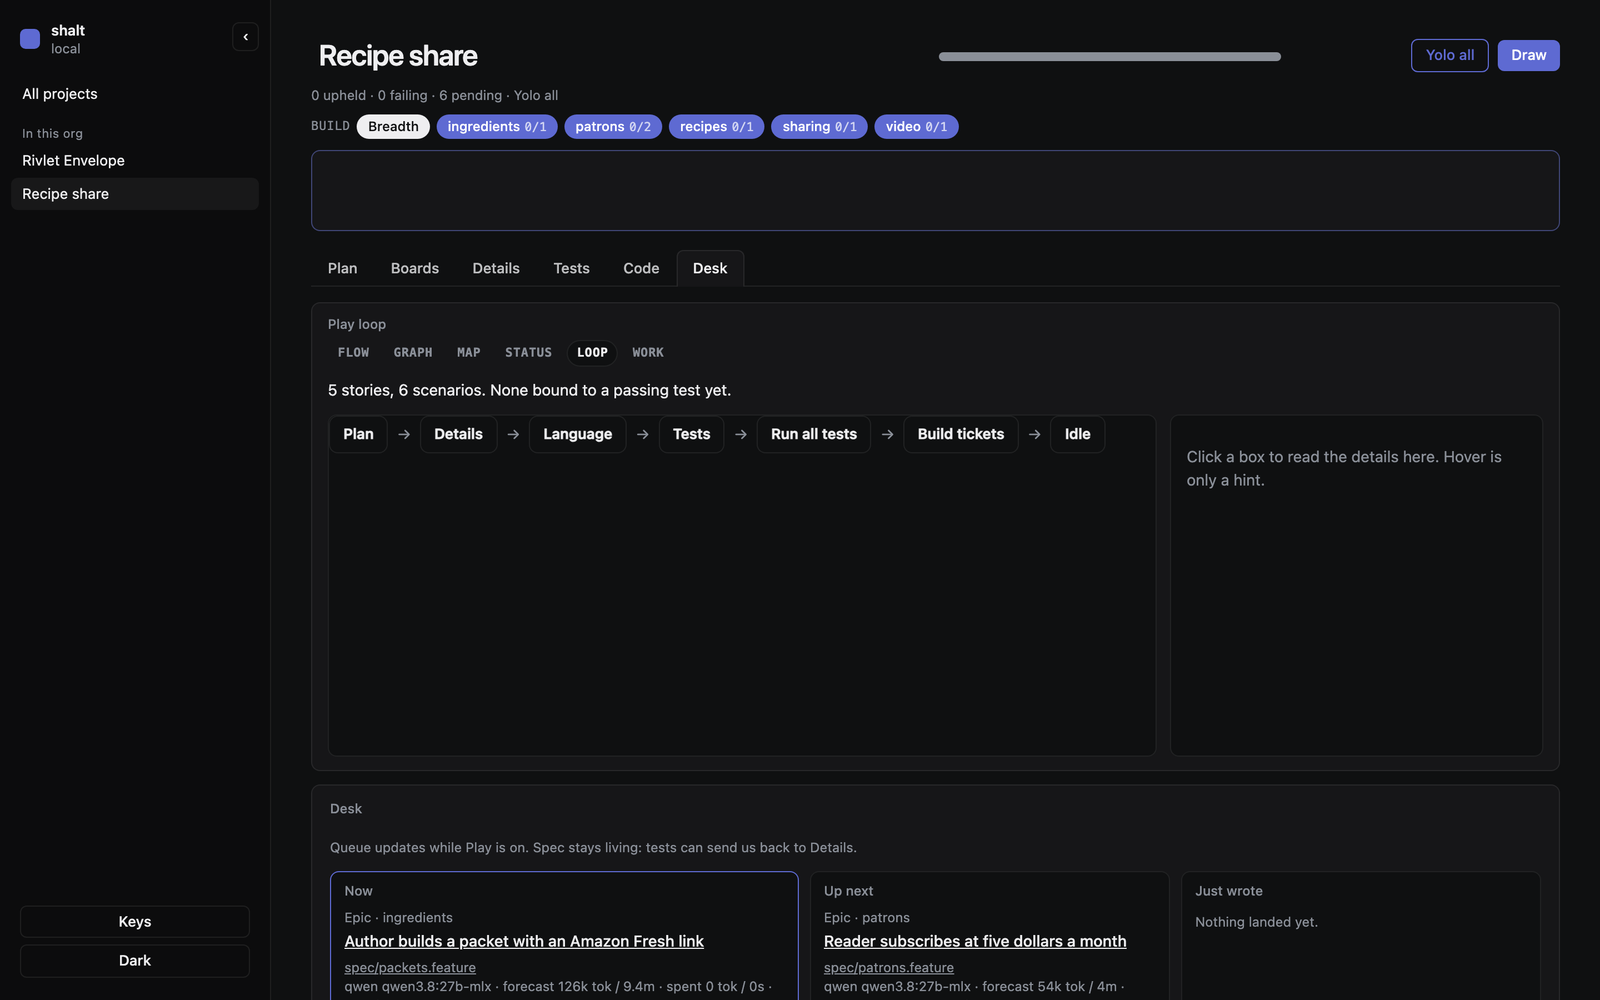
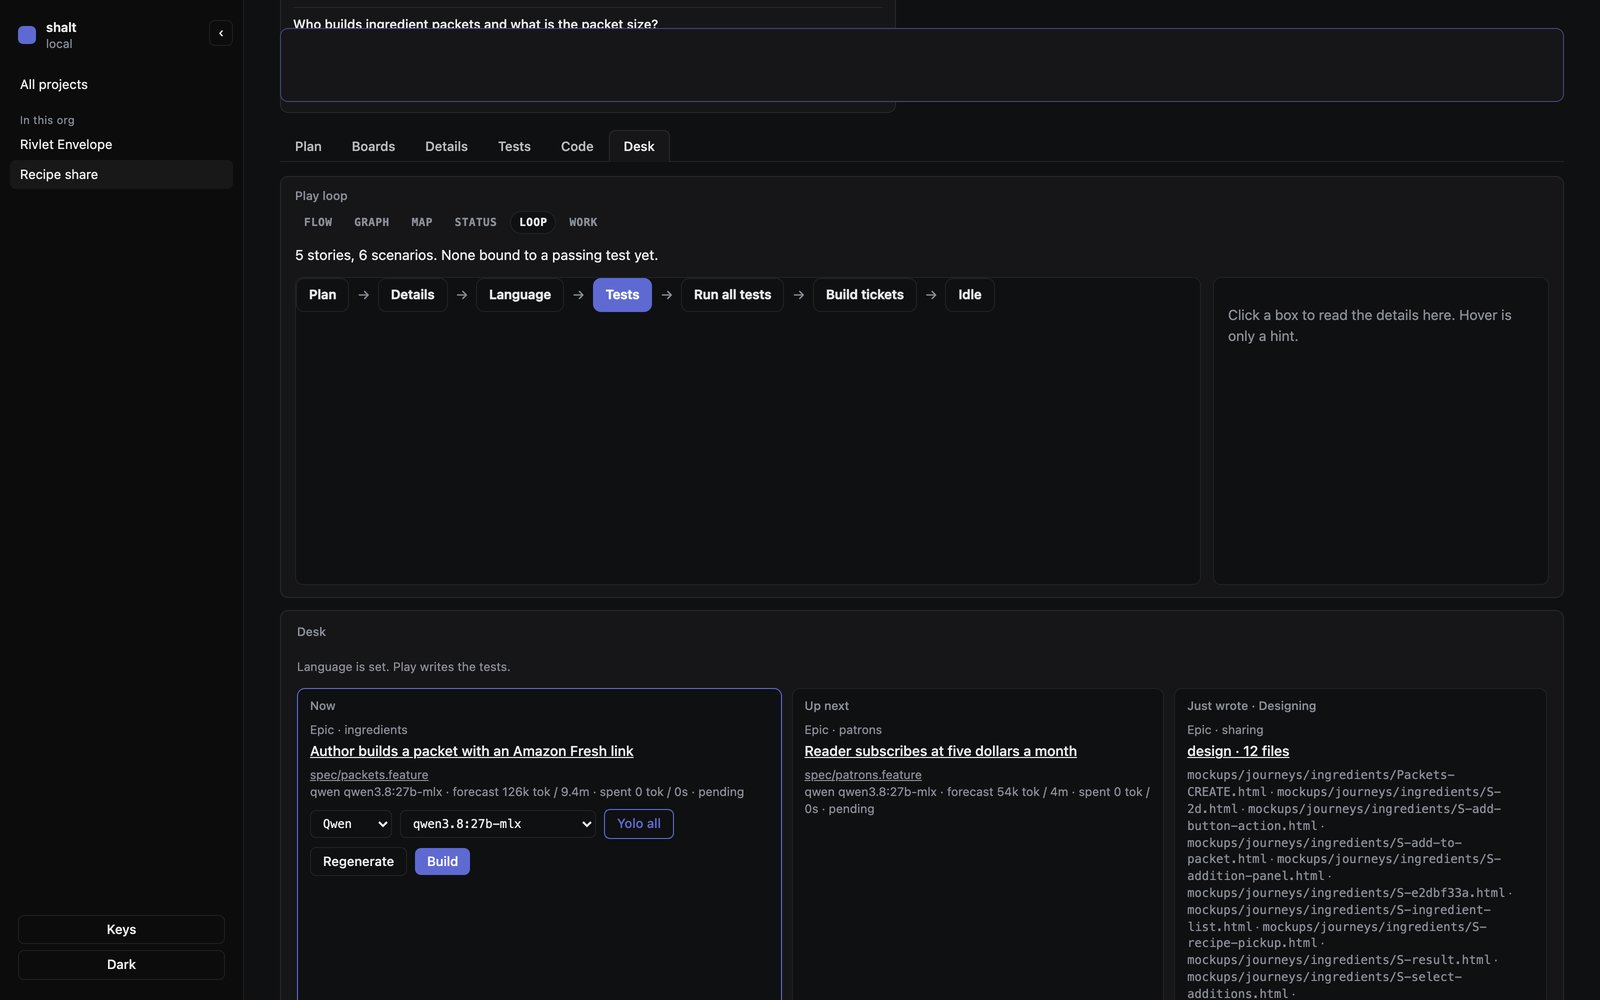
Recapture README shots after an audit.
Tests tab now shows step files, not an empty pane. Inbox shows a real
zone-write fail. Ingredient wireframe is the sketch kit, not overlapping chips.

diff --git a/README.md b/README.md
@@ -108,7 +108,7 @@ macOS: `./scripts/macos-install.sh` puts Shalt.app in Applications and `shalt` o
 
 ![Desk inbox](docs/images/desk-inbox.png)
 
-*Catalog. One project plays at a time. Forecast vs spent is measured.*
+*Catalog. One Play at a time. Recipe share failed a zone write (stepwright tried `src/`) — isolation held.*
 
 ![New project](docs/images/desk-new.png)
 
@@ -120,7 +120,7 @@ macOS: `./scripts/macos-install.sh` puts Shalt.app in Applications and `shalt` o
 
 ![Tests](docs/images/desk-tests.png)
 
-*Tests tab. Pending is not green.*
+*Tests tab. Bound step files, not an empty pane.*
 
 ![Play loop](docs/images/desk-loop.png)
 
@@ -166,7 +166,7 @@ Sketch of writing a recipe (`mockups/archive-sketches/journeys/recipes/recipes.h
 
 ![Create a recipe wireframe](docs/images/wire-recipes-sketch.png)
 
-Ingredient packets / Amazon Fresh (`mockups/journeys/ingredients/ingredients.html`):
+Ingredient packets / Amazon Fresh (`mockups/archive-sketches/journeys/ingredients/ingredients.html`):
 
 ![Ingredient packets wireframe](docs/images/wire-ingredients.png)
 
